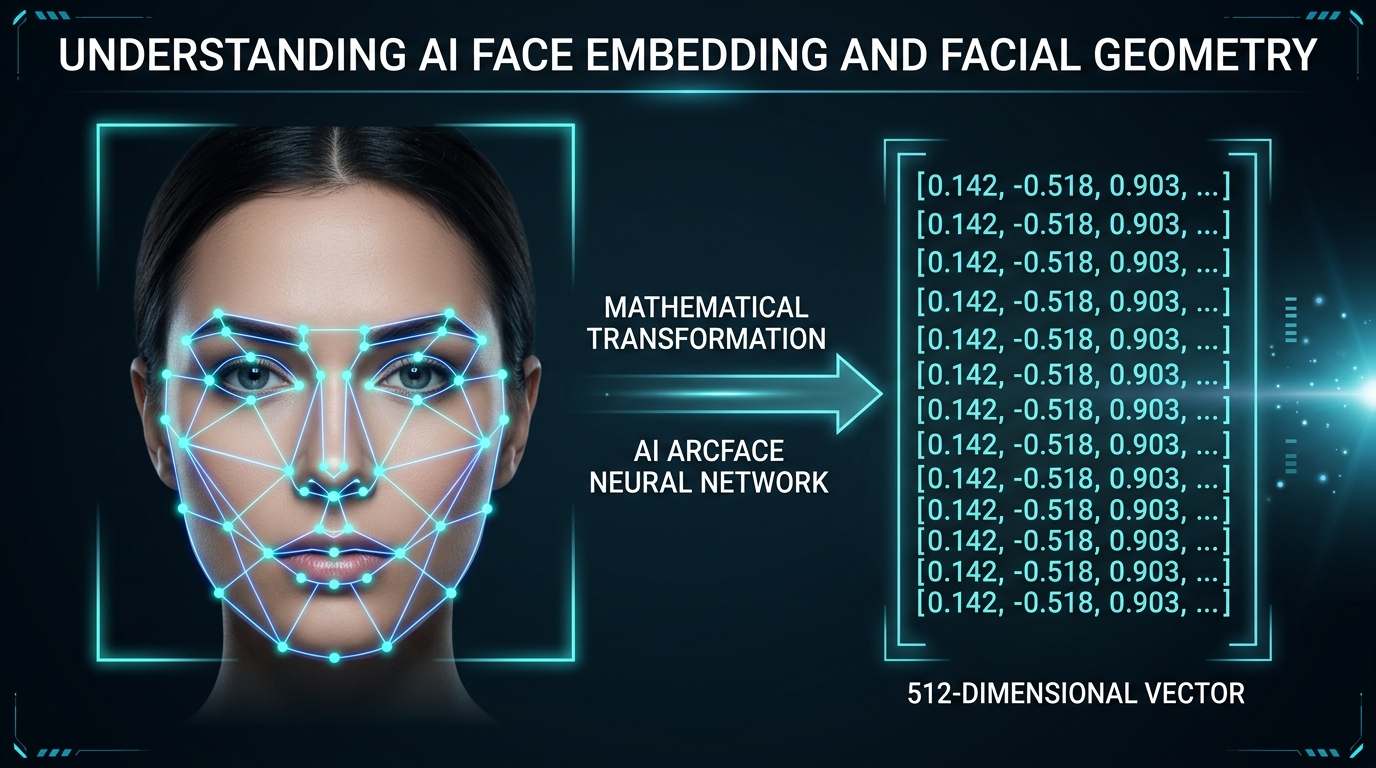
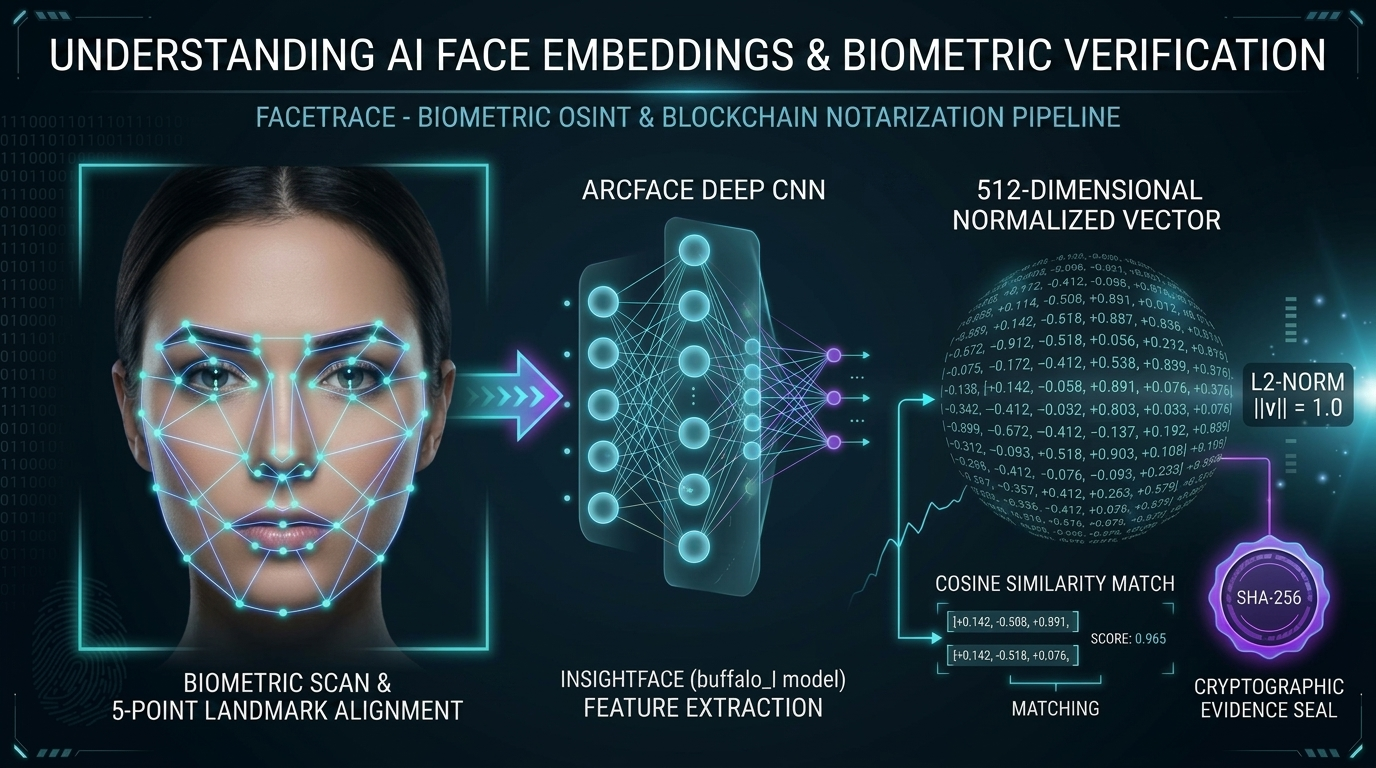
docs: redesign face embedding architecture graphic and embed into README

diff --git a/README.md b/README.md
@@ -47,6 +47,12 @@ Query Image ➔ Face Detection ➔ ArcFace 512-d Vector ➔ Multi-Engine Web & S
      ➔ Ethereum Sepolia Notarization ➔ Cryptographic Verification & Tamper Detection
 ```
 
+<p align="center">
+  <img src="docs/assets/face_embedding_concept.jpg" alt="FaceTrace AI Face Embedding & Biometric Verification Pipeline" width="100%" style="border-radius: 8px; box-shadow: 0 4px 20px rgba(0,0,0,0.3);" />
+  <br>
+  <em>Figure 1: Mathematical transformation of facial geometry into normalized 512-dimensional ArcFace embeddings, cosine similarity matching, and cryptographic tamper-proof evidence sealing.</em>
+</p>
+
 ---
 
 ## 🏗 System Architecture
